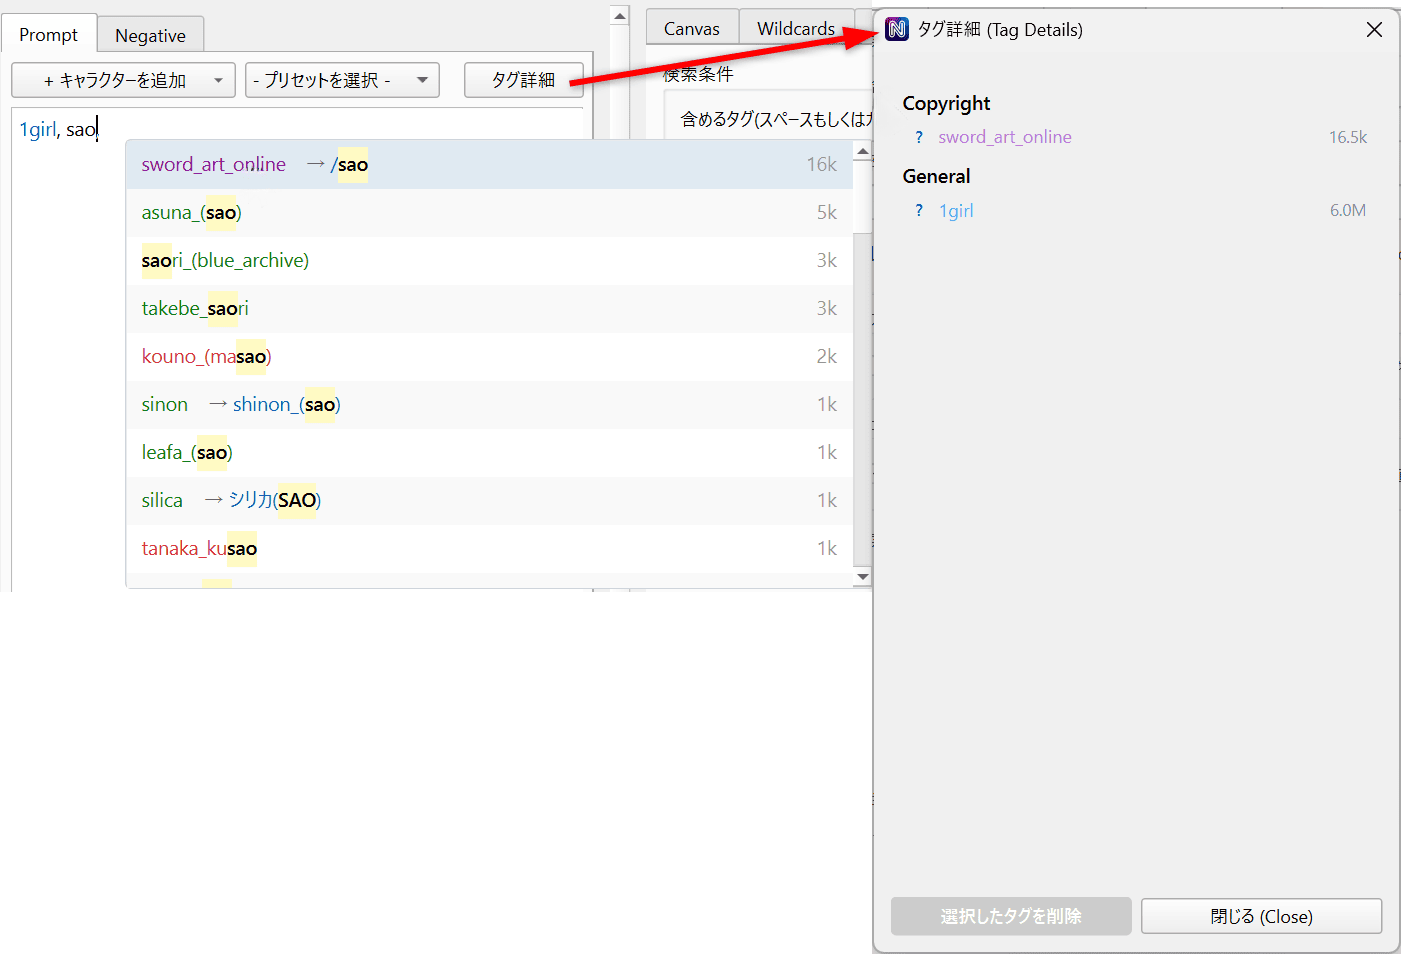
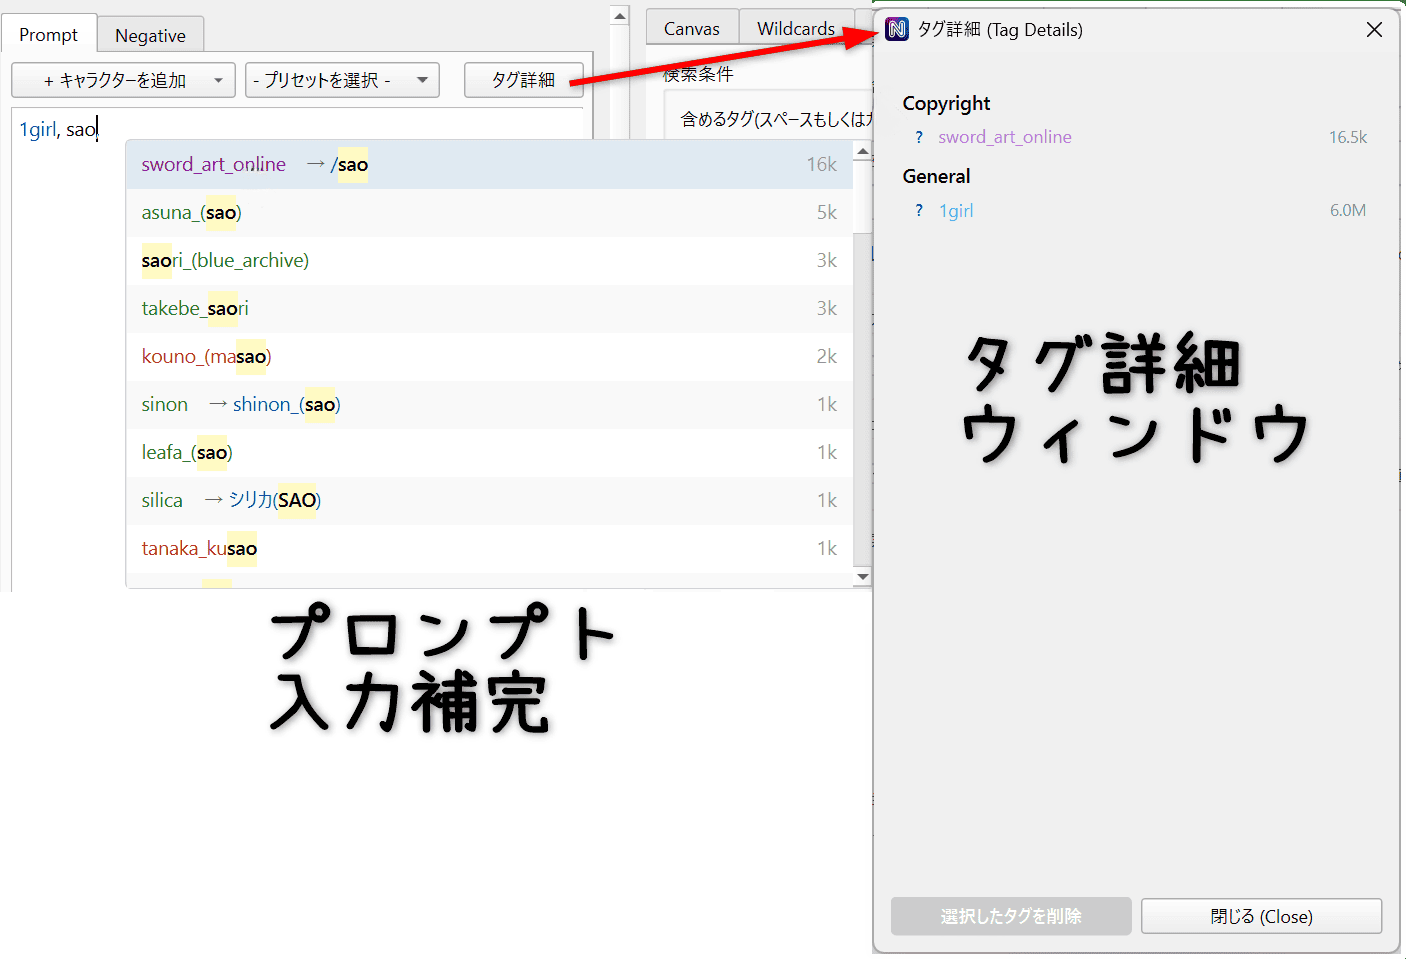
revise

Changed region(s): [[0.1835, 0.6048, 0.4282, 0.7862], [0.6728, 0.3326, 0.9481, 0.4838]]

diff --git a/assets/manual/nai-smart-studio/nai-smart-studio_online_manual_j.html b/assets/manual/nai-smart-studio/nai-smart-studio_online_manual_j.html
@@ -17,6 +17,7 @@
         <li><a href="#intro" class="active">はじめに</a></li>
         <li><a href="#setup">初回セットアップ</a></li>
         <li><a href="#basic">画像生成の基本</a></li>
+        <li><a href="#import">画像インポート</a></li>
         <li><a href="#i2i">Image-to-Image</a></li>
         <li><a href="#batch">連続生成</a></li>
         <li><a href="#vibe">NovelAIポーション</a></li>
@@ -157,18 +158,49 @@
             </p>
           </section>
 
+          <section id="import">
+            <h1>画像インポート</h1>
+            <p>
+              キャンバスに画像ファイルをドラッグ＆ドロップ、もしくは右パネルの履歴から画像を「Shift
+              + クリック」で選ぶことで<br />
+              画像インポートウィンドウが表示されます。
+            </p>
+            <img
+              src="images/IMPORT_001.png"
+              alt="Mask Tools"
+              class="screenshot"
+            />
+            <p>
+              画像インポートウィンドウでは画像をどこにセットするか選択できます。
+            </p>
+            <ul>
+              <li>
+                <strong>Image to image / inpaint</strong>:
+                画像をキャンパスにセットします。
+              </li>
+              <li>
+                <strong>NovelAI ポーション</strong>: 画像をNovelAI
+                ポーションタブにセットします。
+              </li>
+              <li>
+                <strong>精密参照</strong>: 画像を精密参照タブにセットします。
+              </li>
+              <li>
+                <strong>メタデータをインポート</strong>:
+                メタデータをインポートし、画像をキャンパスにセットします
+              </li>
+            </ul>
+            <p>
+              右パネルの履歴から画像を通常クリックで選択した場合は「Image to
+              image / inpaint (画像をキャンパスにセット)」になります。
+            </p>
+          </section>
+
           <section id="i2i">
             <h1>Image-to-Image / Inpaint</h1>
             <p>
               既存の画像を元に新しい画像を生成したり、画像の一部だけを描き直す機能です。
             </p>
-            <h3>画像の読み込み</h3>
-            <p>以下のいずれかの方法でキャンバスに画像を読み込みます：</p>
-            <ul>
-              <li>キャンバスに画像ファイルをドラッグ＆ドロップ</li>
-              <li>右パネルの履歴から画像をクリック</li>
-              <li>クリップボードから貼り付け（Ctrl+V）</li>
-            </ul>
             <img src="images/002.png" alt="Mask Tools" class="screenshot" />
             <h3>Inpaint（部分修正）</h3>
             <p>
@@ -227,6 +259,10 @@
                 <strong>中断するまで</strong>:
                 停止ボタンを押すまで無限に生成します。
               </li>
+              <div class="note">
+                ※短期間に大量の画像生成を行うこと、短い遅延時間で連続生成することはアカウント制限やBANのリスクがあります。
+                <br />　使用においては十分な待機時間を設定し、上記リスクを認識の上でご使用ください。
+              </div>
             </ul>
           </section>
 
@@ -361,7 +397,8 @@
               <li>詳しくはユーザーマニュアル.mdを参照ください</li>
             </ul>
             <div class="note">
-              中央パネルの「Wildcards」タブから、既存ファイルの確認や編集ができます。
+              中央パネルの「Wildcards」タブから、既存ファイルの内容確認ができます
+              （内容編集は後日アップデートで対応予定です）。
             </div>
           </section>
 
@@ -433,6 +470,14 @@
                 <strong>レーティング</strong>: 検索対象のレーティング（General,
                 Sensitiveなど）をフィルタリングします。
               </li>
+              <li>
+                <strong>出力フィルタリング設定</strong>:
+                作品名やキャラクター名などを生成時に自動除外します。
+              </li>
+              <li>
+                <strong>Prompt Upscaler設定</strong>:
+                検索したプロンプト内容を補強（タグ追加）します。※PCスペックによって処理に時間がかかる可能性があります。
+              </li>
             </ul>
             <p>
               検索結果はリスト表示され、クリックで詳細を確認できます。<br />
@@ -449,8 +494,26 @@
           <section id="settings">
             <h1>設定・その他機能</h1>
 
-            <h3>プロンプト入力補完＆タグ詳細確認</h3>
-            <p>プロンプトの入力補完やタグの詳細確認が行えます</p>
+            <h3>プロンプト入力補完＆タグ詳細表示</h3>
+            <p>プロンプトの入力補完やタグ詳細表示が行えます</p>
+            <ul>
+              <li>
+                <strong>プロンプト入力補完</strong>:
+                入力時に入力候補が表示されます、英語のほか日本語のキーワードにも対応しており、<br />プロンプト入力を効率的に行えます。
+                候補から選ばない場合は ,(カンマ)で補完ウィンドウを閉じます。
+              </li>
+              <li>
+                <strong>タグ詳細表示</strong>:
+                「タグ詳細」ボタンからタグの詳細を確認できます。<br />
+                タグを選ぶことでそのタグを削除できるほか、？を押すことでwikiの説明の確認が可能です。
+              </li>
+              <li>
+                <strong>設定</strong>:
+                これら入力補助の設定はファイル→設定→入力補助 (Assistance)
+                (Assistance)タブから変更可能です。<br />
+                またプロンプト欄のフォントや文字サイズも変更可能です。
+              </li>
+            </ul>
             <img
               src="images/010.png"
               alt="Eagle Integration"
@@ -477,8 +540,12 @@
                 <img src="images/013.png" alt="Input" />
               </div>
               <div>
+                <h4>検索 (Search)</h4>
+                <img src="images/014.png" alt="Input" />
+              </div>
+              <div>
                 <h4>その他 (Other)</h4>
-                <img src="images/014.png" alt="Other" />
+                <img src="images/015.png" alt="Other" />
               </div>
             </div>
           </section>
